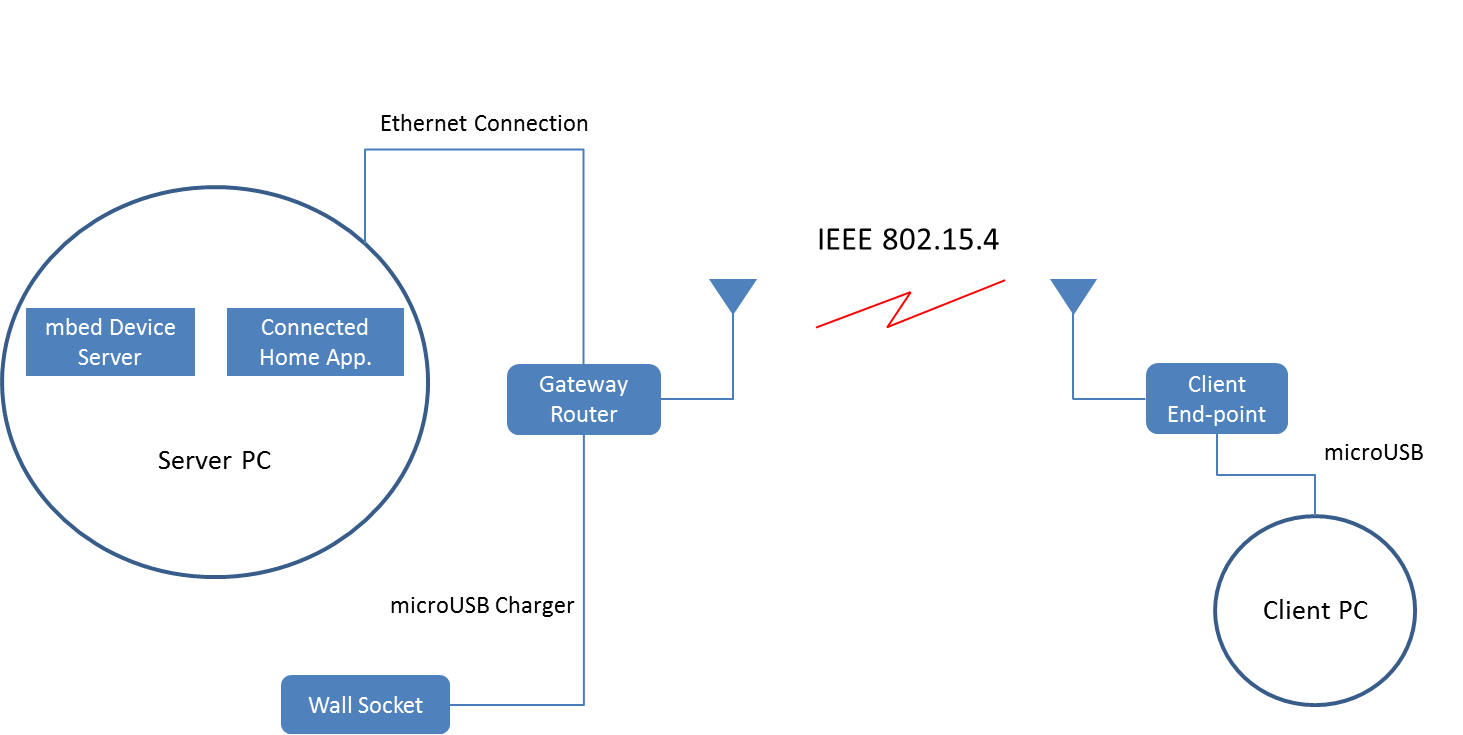
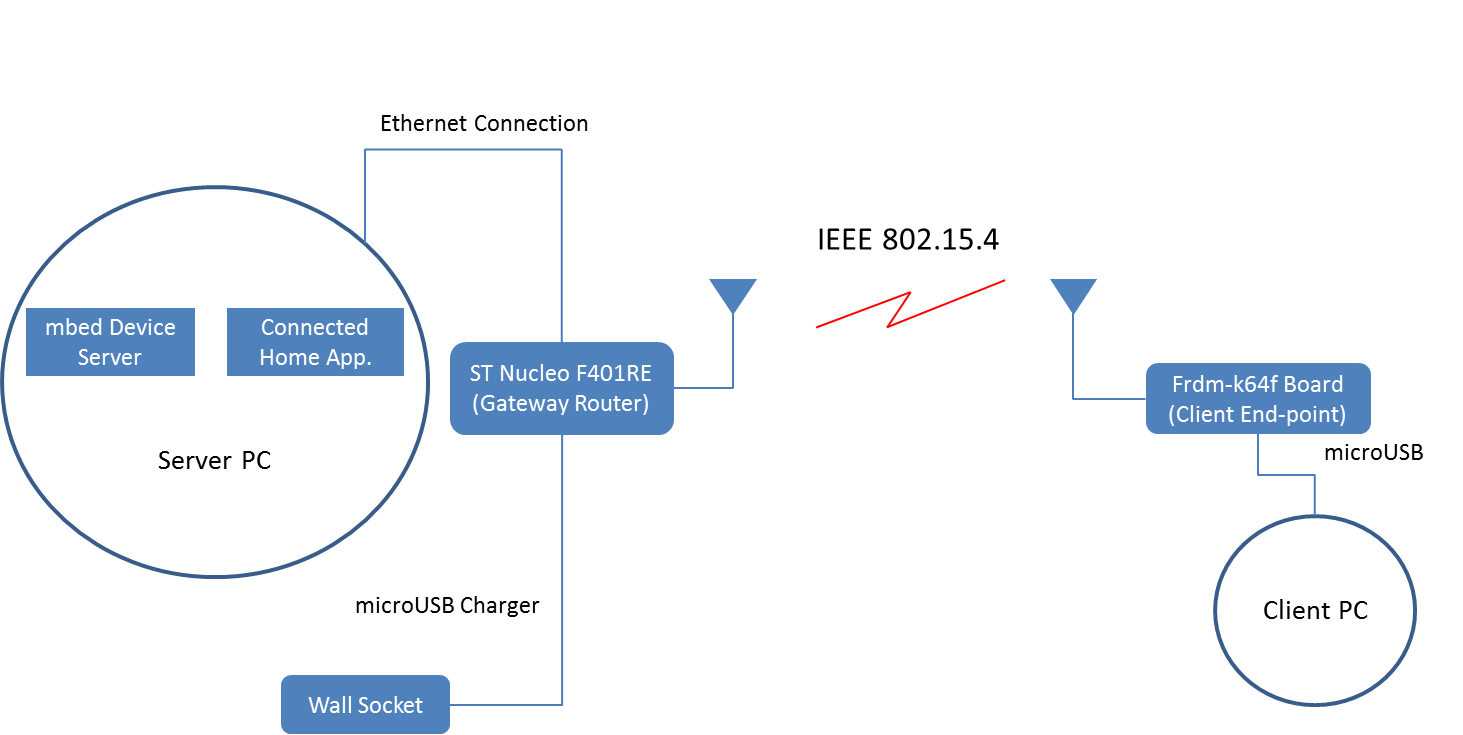
Minor Changes.
A few minor changes have been made to the text and block diagram.

diff --git a/README.md b/README.md
@@ -8,17 +8,17 @@ This example application demonstrates how to:
 * register, unregister, read resource values and send observations to mbed Device Server
 * disconnect from the network
 
-## Reference Block Diagram
-![](img/Dia.png) 
+
 ## Required hardware
 
-* An frdm-k64f development board
+* An `Frdm-k64f` development board (Client end-point)
 * An mbed 6LoWPAN shield
-* An mbed 6LoWPAN Gateway
+* An mbed 6LoWPAN `Gateway router` (ST Nucleo F401RE)
 * A micro-USB cable
 * A micro-USB charger for powering mbed 6LoWPAN Gateway
 * Ethernet Cable
-* A PC running mbed Device Server
+* A PC running `mbed Device Server (mDS)`
+
 
 ## Required software
 
@@ -29,25 +29,36 @@ This example application demonstrates how to:
 * [Wireshark](https://www.wireshark.org/) - for packet inspection/network debugging.
 * [Putty](http://www.chiark.greenend.org.uk/~sgtatham/putty/download.html) - for serial terminal emulation
 
+## Reference Block Diagram
+![](img/Dia.png) 
+
+* The communication link between the `Gateway router` and `mbed Device Server` is Ethernet. 
+* The `Gateway router` is powered up using a microUSB Charger connected to a wall socket.
+* In order to flash the `Gateway router` with the `Gateway router firmware` and , you need a microUSB cable . (See instructions below)
+* You can also power up your `Gateway router` with microUSB cable connected to the PC if you do not have a microUSB charger.
+* The wireless link between `Frdm-k64f (Client end-point)` and `Gateway router` is following `IEEE 802.15.4` standard. 
+* The `Frdm-k64f (Client end-point)` can also be powered up either a microUSB charger or a microUSB cable. If microUSB is used, debug/trace messages can be viewed utilizing an optional software listed above, e.g., Putty.
+
+
 ##Test environment setup
 #### Server Side
 
-* Connect mbed 6LoWPAN Gateway to PC running mDS with ethernet cable. 
-* Connect micro-USB charger to mbed 6LoWPAN Gateway.
+* Connect mbed 6LoWPAN `Gateway Router` to PC running mDS with ethernet cable. 
+* Connect micro-USB cable to mbed 6LoWPAN `Gateway Router`.  It will be shown in your computer as a removable memory
 * The firmware for Gateway `mbed_6LP_Gateway.bin`, is located in the `GW_Binary` folder in the root of this example. 
-* Connect the mbed gateway, it will be shown in your computer as a removable memory. Copy the `mbed_6LP_Gateway.bin` file to the mbed gateway to flash the device. To reboot the new firmware, click **Reset** after flashing.
+* Copy the `mbed_6LP_Gateway.bin` file to the mbed 6LoWPAN `Gateway router` in order to flash the device. The device will reboot automatically after flashing. If it does not happen, push the **Reset** button on the board.
 * Download and run mDS server on PC (see instructions below).
 
 
 **Note!**  For Windows OS: A seperate driver is needed. [Download](https://developer.mbed.org/handbook/Windows-serial-configuration) the mbed Windows Serial Port driver.
 
 #### Client Side
-* Connect `frdm-k64f` development board and mbed 6LoWPAN shield together.
+* Connect `Frdm-k64f` development board and mbed 6LoWPAN shield together.
 * Configure the `lwm2m-client-6lowpan-example` application in order to use `Device Server(mDS)` IPv6 address.
     * in the PC running `mDS` open command prompt and type _ipconfig_
     * section `Ethernet adapter Local Area Connection` field `IPv6 address` contains IPv6 address
     * copy IPv6 address to the String`MBED_SERVER_ADDRESS` at line no. 11 in the file `./source/lwm2mclient.cpp`
-    *  Address format is `coap://<IPv6 address>:PORT`. For example, if your server's IP address is `FD00:FF1:CE0B:A5E1:1068:AF13:9B61:D557`,   you would enter `coap://FD00:FF1:CE0B:A5E1:1068:AF13:9B61:D557:5683` where `5683` is the port number.
+    *  Address format is `coap://<IPv6 address>:PORT`. For example, if your server's IP address is `FD00:FF1:CE0B:A5E1:1068:AF13:9B61:D557`,   you would enter `coap://FD00:FF1:CE0B:A5E1:1068:AF13:9B61:D557:5683` where `5683` is the port number. The `FD` prefix tells us that it is a Unique local IPv6 address.
 * Build the `lwm2m-client-6lowpan-example application` with `Yotta` (see `Build instructions` below)
 * Load the `lwm2m-client-6lowpan-example application` to the `FRDM-K64F` board
 
